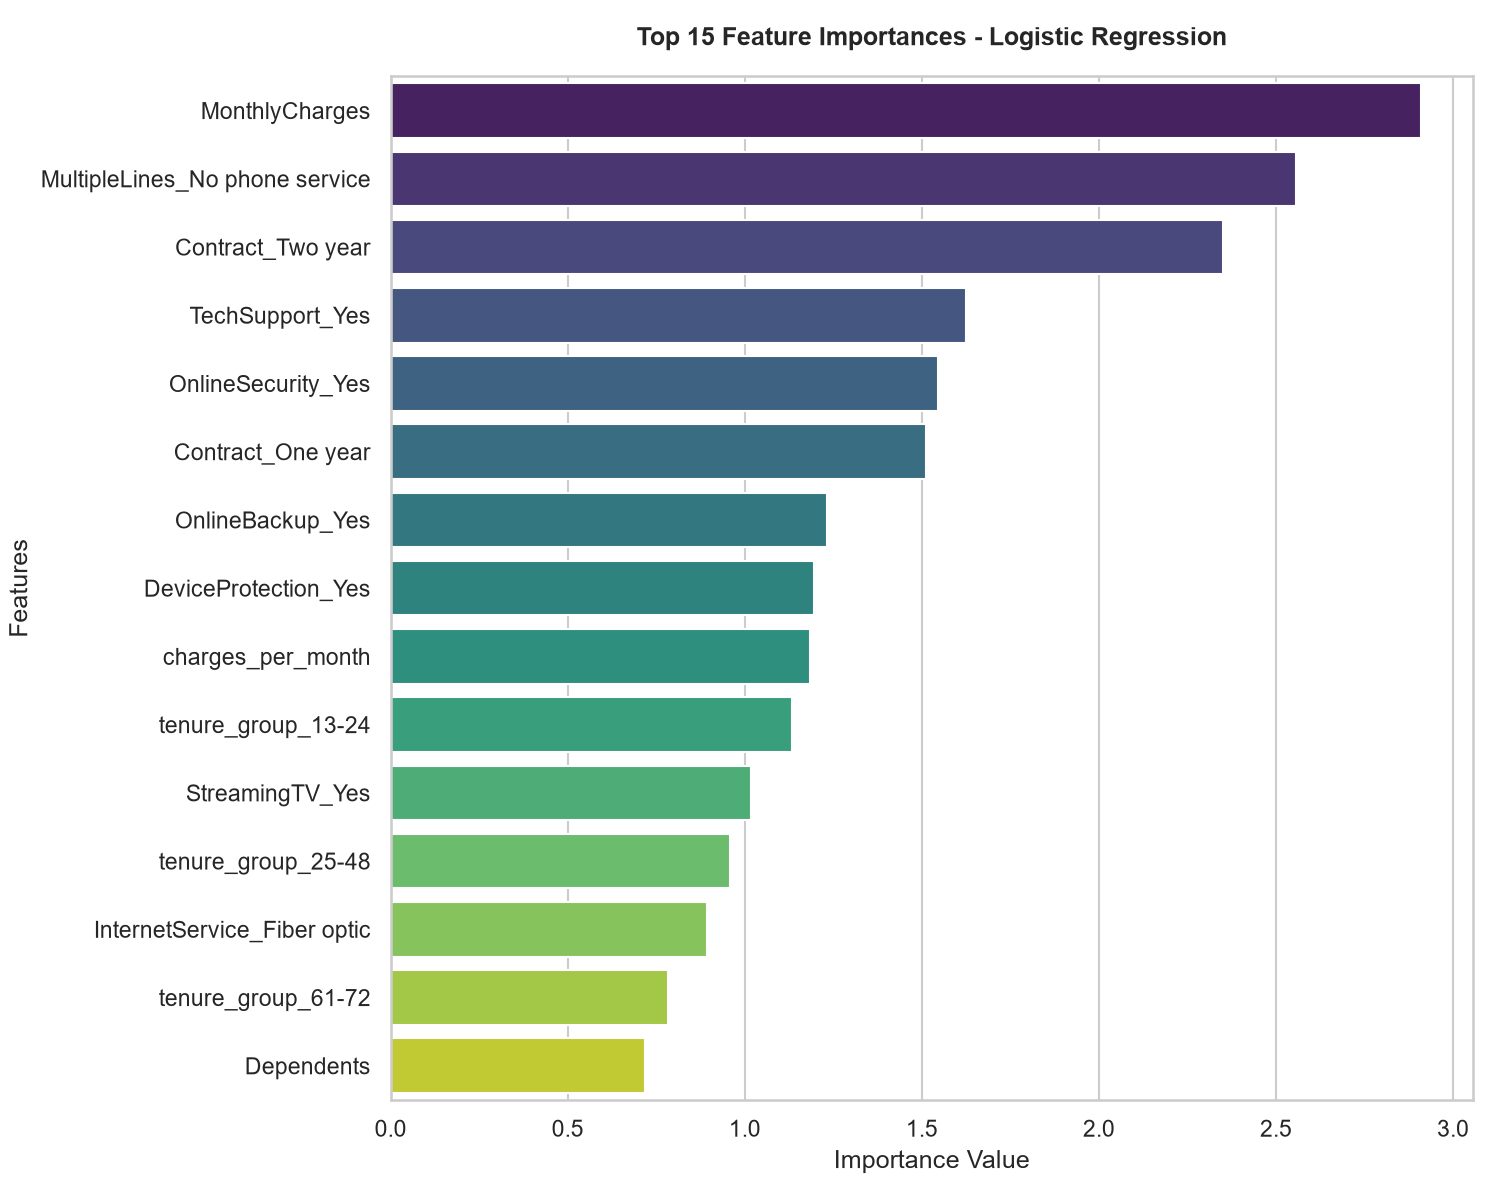
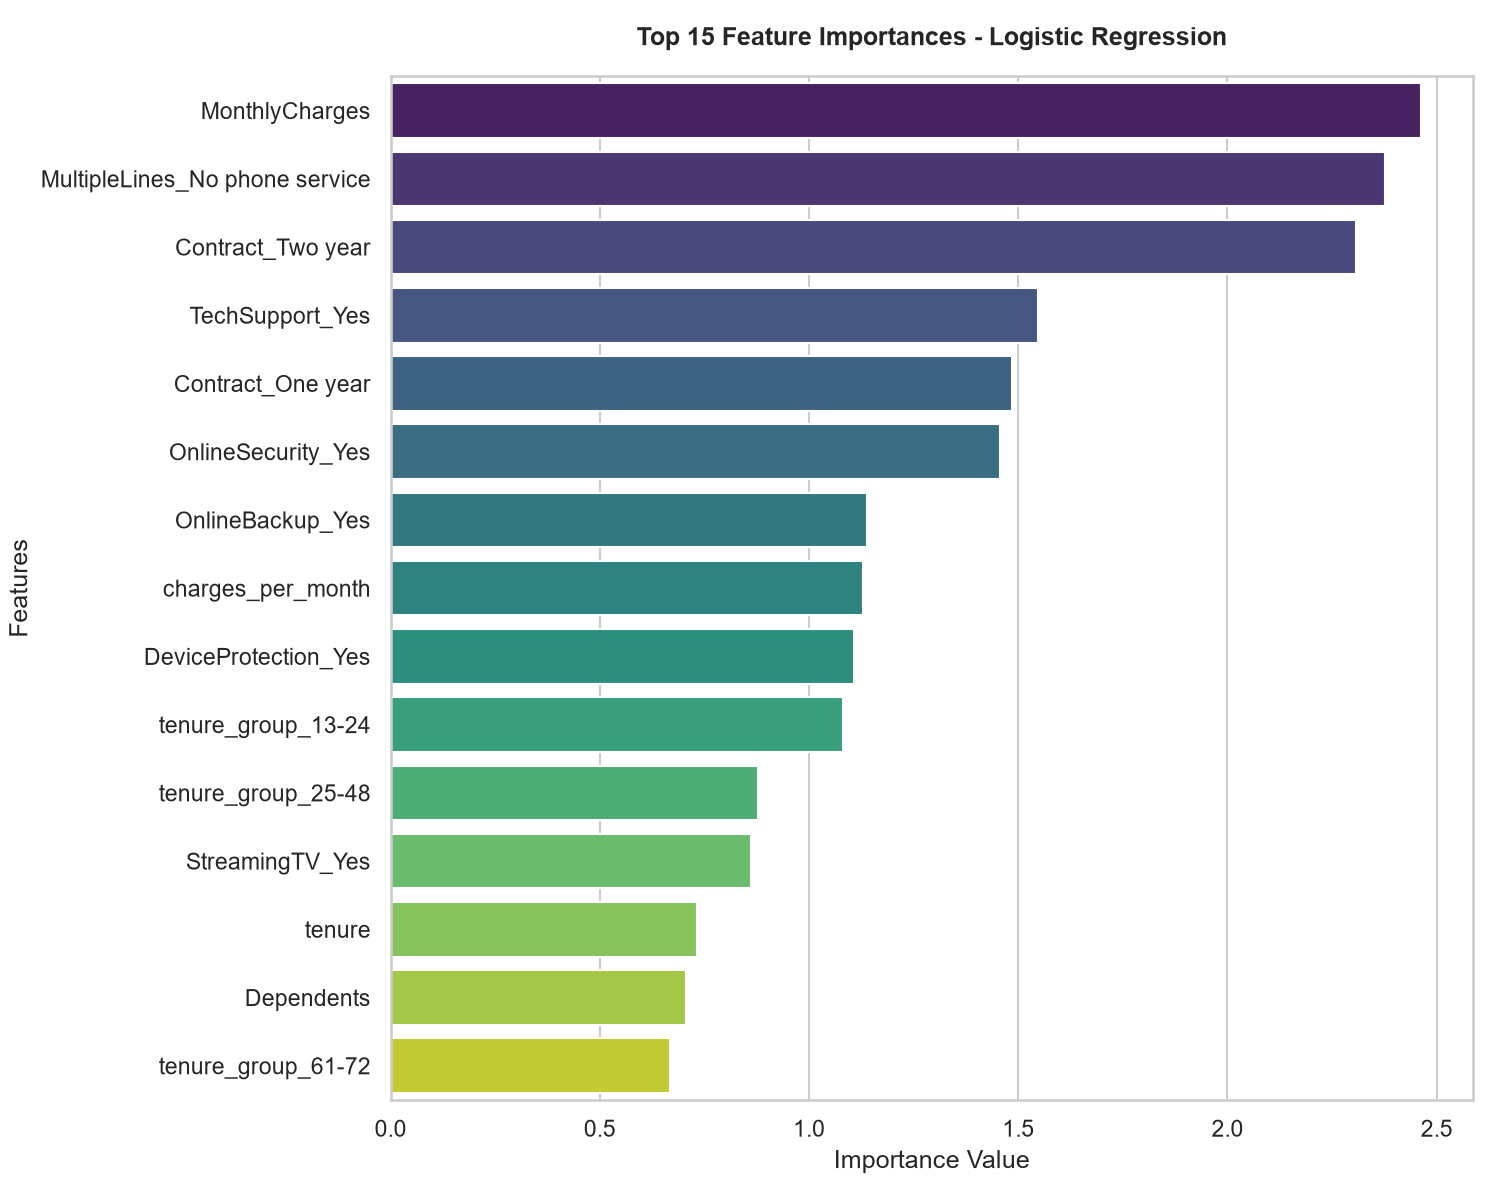
Integrate MLflow experiment tracking into modeling pipeline

diff --git a/src/train.py b/src/train.py
@@ -4,6 +4,8 @@ import joblib
 import pandas as pd
 import numpy as np
 import optuna
+import mlflow
+import mlflow.sklearn
 from sklearn.linear_model import LogisticRegression
 from sklearn.tree import DecisionTreeClassifier
 from sklearn.ensemble import RandomForestClassifier
@@ -49,36 +51,63 @@ def train_and_compare(X_train_smote, y_train_smote, X_train_smoteenn, y_train_sm
     base_models = get_base_models()
     for name, model in base_models.items():
         print(f"Training {name}...")
-        model.fit(X_train_smote, y_train_smote)
-        trained_models_smote[name] = model
-        
-        # Predictions
-        y_pred = model.predict(X_test)
-        y_prob = model.predict_proba(X_test)[:, 1] if hasattr(model, 'predict_proba') else None
-        
-        # Metrics
-        metrics = calculate_metrics(y_test, y_pred, y_prob)
-        metrics['Model'] = name
-        metrics['Balancing'] = 'SMOTE'
-        results.append(metrics)
+        # Create a nested/child run in MLflow
+        with mlflow.start_run(run_name=f"Base_{name.replace(' ', '_')}_SMOTE", nested=True):
+            model.fit(X_train_smote, y_train_smote)
+            trained_models_smote[name] = model
+            
+            # Predictions
+            y_pred = model.predict(X_test)
+            y_prob = model.predict_proba(X_test)[:, 1] if hasattr(model, 'predict_proba') else None
+            
+            # Metrics
+            metrics = calculate_metrics(y_test, y_pred, y_prob)
+            metrics['Model'] = name
+            metrics['Balancing'] = 'SMOTE'
+            results.append(metrics)
+            
+            # Log params & metrics
+            mlflow.log_param("model_type", name)
+            mlflow.log_param("balancing", "SMOTE")
+            for param, val in model.get_params().items():
+                if type(val) in [int, float, str, bool]:
+                    mlflow.log_param(f"model_{param}", val)
+            
+            for metric_name, val in metrics.items():
+                if metric_name not in ['Model', 'Balancing']:
+                    if not pd.isna(val):
+                        mlflow.log_metric(metric_name, float(val))
         
     # Core loop for SMOTEENN
     print("\n--- Training on SMOTEENN-Balanced Dataset ---")
     base_models = get_base_models()
     for name, model in base_models.items():
         print(f"Training {name}...")
-        model.fit(X_train_smoteenn, y_train_smoteenn)
-        trained_models_smoteenn[name] = model
-        
-        # Predictions
-        y_pred = model.predict(X_test)
-        y_prob = model.predict_proba(X_test)[:, 1] if hasattr(model, 'predict_proba') else None
-        
-        # Metrics
-        metrics = calculate_metrics(y_test, y_pred, y_prob)
-        metrics['Model'] = name
-        metrics['Balancing'] = 'SMOTEENN'
-        results.append(metrics)
+        with mlflow.start_run(run_name=f"Base_{name.replace(' ', '_')}_SMOTEENN", nested=True):
+            model.fit(X_train_smoteenn, y_train_smoteenn)
+            trained_models_smoteenn[name] = model
+            
+            # Predictions
+            y_pred = model.predict(X_test)
+            y_prob = model.predict_proba(X_test)[:, 1] if hasattr(model, 'predict_proba') else None
+            
+            # Metrics
+            metrics = calculate_metrics(y_test, y_pred, y_prob)
+            metrics['Model'] = name
+            metrics['Balancing'] = 'SMOTEENN'
+            results.append(metrics)
+            
+            # Log params & metrics
+            mlflow.log_param("model_type", name)
+            mlflow.log_param("balancing", "SMOTEENN")
+            for param, val in model.get_params().items():
+                if type(val) in [int, float, str, bool]:
+                    mlflow.log_param(f"model_{param}", val)
+            
+            for metric_name, val in metrics.items():
+                if metric_name not in ['Model', 'Balancing']:
+                    if not pd.isna(val):
+                        mlflow.log_metric(metric_name, float(val))
         
     results_df = pd.DataFrame(results)
     
@@ -178,76 +207,109 @@ def run_optuna_tuning(model_name, balancing_name, X_train, y_train, X_test, y_te
     for key, value in trial.params.items():
         print(f"    {key}: {value}")
         
-    return trial.params
+    return trial.params, trial.value
 
 def main():
-    # Load processed datasets
-    X_train_smote, y_train_smote, X_train_smoteenn, y_train_smoteenn, X_test, y_test = load_processed_data()
+    # Set experiment
+    mlflow.set_tracking_uri("sqlite:///mlflow.db")
+    mlflow.set_experiment("Customer-Churn-Prediction")
     
-    # Train and compare base models
-    results_df, models_smote, models_smoteenn = train_and_compare(
-        X_train_smote, y_train_smote, X_train_smoteenn, y_train_smoteenn, X_test, y_test
-    )
-    
-    # Save comparison dataframe
-    results_df.to_csv('reports/base_model_comparisons.csv', index=False)
-    
-    # Select best model and resampler based on Selection Score
-    winner_row = results_df.sort_values(by='Selection_Score', ascending=False).iloc[0]
-    best_model_name = winner_row['Model']
-    best_balancing_name = winner_row['Balancing']
-    
-    print(f"\n>>> Selected Winner: {best_model_name} with {best_balancing_name} Balancing")
-    print(f"    Base Metrics -> Recall: {winner_row['Recall']:.3f}, AUC: {winner_row['ROC-AUC']:.3f}")
-    
-    # Get active train set based on best balancing method
-    if best_balancing_name == 'SMOTE':
-        X_train_best = X_train_smote
-        y_train_best = y_train_smote
-    else:
-        X_train_best = X_train_smoteenn
-        y_train_best = y_train_smoteenn
+    with mlflow.start_run(run_name="Churn_Training_Pipeline") as parent_run:
+        # Load processed datasets
+        X_train_smote, y_train_smote, X_train_smoteenn, y_train_smoteenn, X_test, y_test = load_processed_data()
         
-    # Run Optuna Tuning
-    best_params = run_optuna_tuning(
-        best_model_name, best_balancing_name, X_train_best, y_train_best, X_test, y_test
-    )
-    
-    # Retrain final model with best params
-    print(f"\n--- Retraining final tuned {best_model_name} model ---")
-    if best_model_name == 'XGBoost':
-        final_model = XGBClassifier(**best_params, random_state=42, eval_metric='logloss')
-    elif best_model_name == 'LightGBM':
-        final_model = LGBMClassifier(**best_params, random_state=42, verbose=-1)
-    elif best_model_name == 'Random Forest':
-        final_model = RandomForestClassifier(**best_params, random_state=42)
-    elif best_model_name == 'Logistic Regression':
-        final_model = LogisticRegression(**best_params, random_state=42, max_iter=1000)
-    else:
-        final_model = DecisionTreeClassifier(**best_params, random_state=42)
+        # Train and compare base models
+        results_df, models_smote, models_smoteenn = train_and_compare(
+            X_train_smote, y_train_smote, X_train_smoteenn, y_train_smoteenn, X_test, y_test
+        )
         
-    final_model.fit(X_train_best, y_train_best)
-    
-    # Evaluate final model
-    y_pred = final_model.predict(X_test)
-    y_prob = final_model.predict_proba(X_test)[:, 1] if hasattr(final_model, 'predict_proba') else None
-    
-    final_metrics = calculate_metrics(y_test, y_pred, y_prob)
-    print("\n--- Tuned Model Performance on Test Set ---")
-    for k, v in final_metrics.items():
-        print(f"{k}: {v:.4f}")
+        # Save comparison dataframe
+        results_df.to_csv('reports/base_model_comparisons.csv', index=False)
         
-    # Save confusion matrix heatmap
-    plot_confusion_matrix(y_test, y_pred, f"Tuned {best_model_name}", save_path='reports/plots/confusion_matrix_tuned.png')
-    
-    # Save feature importances (top 15)
-    feature_names = list(X_train_best.columns)
-    plot_feature_importance(final_model, feature_names, best_model_name, top_n=15, save_path='reports/plots/feature_importance.png')
-    
-    # Save best model artifact
-    os.makedirs('models', exist_ok=True)
-    joblib.dump(final_model, 'models/best_model.pkl')
-    print("\nModel saved to models/best_model.pkl successfully!")
+        # Select best model and resampler based on Selection Score
+        winner_row = results_df.sort_values(by='Selection_Score', ascending=False).iloc[0]
+        best_model_name = winner_row['Model']
+        best_balancing_name = winner_row['Balancing']
+        
+        print(f"\n>>> Selected Winner: {best_model_name} with {best_balancing_name} Balancing")
+        print(f"    Base Metrics -> Recall: {winner_row['Recall']:.3f}, AUC: {winner_row['ROC-AUC']:.3f}")
+        
+        # Log top-level selection details to parent run
+        mlflow.log_param("selected_base_model", best_model_name)
+        mlflow.log_param("selected_balancing", best_balancing_name)
+        mlflow.log_metric("base_recall", winner_row['Recall'])
+        mlflow.log_metric("base_auc", winner_row['ROC-AUC'])
+        
+        # Get active train set based on best balancing method
+        if best_balancing_name == 'SMOTE':
+            X_train_best = X_train_smote
+            y_train_best = y_train_smote
+        else:
+            X_train_best = X_train_smoteenn
+            y_train_best = y_train_smoteenn
+            
+        # Run Optuna Tuning
+        best_params, best_value = run_optuna_tuning(
+            best_model_name, best_balancing_name, X_train_best, y_train_best, X_test, y_test
+        )
+        
+        # Log tuning results to parent run
+        mlflow.log_metric("optuna_best_value", best_value)
+        for param, val in best_params.items():
+            mlflow.log_param(f"tuned_opt_{param}", val)
+        
+        # Retrain final model with best params
+        print(f"\n--- Retraining final tuned {best_model_name} model ---")
+        if best_model_name == 'XGBoost':
+            final_model = XGBClassifier(**best_params, random_state=42, eval_metric='logloss')
+        elif best_model_name == 'LightGBM':
+            final_model = LGBMClassifier(**best_params, random_state=42, verbose=-1)
+        elif best_model_name == 'Random Forest':
+            final_model = RandomForestClassifier(**best_params, random_state=42)
+        elif best_model_name == 'Logistic Regression':
+            final_model = LogisticRegression(**best_params, random_state=42, max_iter=1000)
+        else:
+            final_model = DecisionTreeClassifier(**best_params, random_state=42)
+            
+        final_model.fit(X_train_best, y_train_best)
+        
+        # Evaluate final model
+        y_pred = final_model.predict(X_test)
+        y_prob = final_model.predict_proba(X_test)[:, 1] if hasattr(final_model, 'predict_proba') else None
+        
+        final_metrics = calculate_metrics(y_test, y_pred, y_prob)
+        print("\n--- Tuned Model Performance on Test Set ---")
+        for k, v in final_metrics.items():
+            print(f"{k}: {v:.4f}")
+            
+        # Log final model metrics
+        for k, v in final_metrics.items():
+            if not pd.isna(v):
+                mlflow.log_metric(f"tuned_{k.replace('-', '_')}", float(v))
+            
+        # Save confusion matrix heatmap
+        plot_confusion_matrix(y_test, y_pred, f"Tuned {best_model_name}", save_path='reports/plots/confusion_matrix_tuned.png')
+        
+        # Save feature importances (top 15)
+        feature_names = list(X_train_best.columns)
+        plot_feature_importance(final_model, feature_names, best_model_name, top_n=15, save_path='reports/plots/feature_importance.png')
+        
+        # Save best model artifact
+        os.makedirs('models', exist_ok=True)
+        joblib.dump(final_model, 'models/best_model.pkl')
+        print("\nModel saved to models/best_model.pkl successfully!")
+        
+        # Log plots as artifacts
+        mlflow.log_artifact('reports/plots/confusion_matrix_tuned.png', 'plots')
+        mlflow.log_artifact('reports/plots/feature_importance.png', 'plots')
+        if os.path.exists('reports/plots/roc_comparison_smote.png'):
+            mlflow.log_artifact('reports/plots/roc_comparison_smote.png', 'plots')
+        if os.path.exists('reports/plots/roc_comparison_smoteenn.png'):
+            mlflow.log_artifact('reports/plots/roc_comparison_smoteenn.png', 'plots')
+            
+        # Log the scikit-learn model artifact to MLflow
+        mlflow.sklearn.log_model(final_model, "best_model")
+        print("\nModel logged to MLflow successfully!")
 
 if __name__ == '__main__':
     main()

diff --git a/README.md b/README.md
@@ -84,12 +84,20 @@ pip install -r requirements.txt
   ```bash
   python src/data_preprocessing.py
   ```
-- Run **Stage 3 (Modeling)** to train, tune, and save the classifier:
+- Run **Stage 3 (Modeling)** to train, tune, and save the classifier (and automatically log runs to MLflow):
   ```bash
   python src/train.py
   ```
 
-### 5. Run Streamlit Application Locally
+### 5. Experiment Tracking with MLflow
+All modeling experiments, metrics (Accuracy, Recall, ROC-AUC), parameter choices, diagnostic plots, and trained models are tracked locally in a SQLite database (`mlflow.db`) and artifact folders (`mlruns/`).
+- Launch the MLflow UI dashboard:
+  ```bash
+  mlflow ui --backend-store-uri sqlite:///mlflow.db --port 5000
+  ```
+- View it in your web browser at `http://localhost:5000`.
+
+### 6. Run Streamlit Application Locally
 ```bash
 streamlit run app/streamlit_app.py
 ```